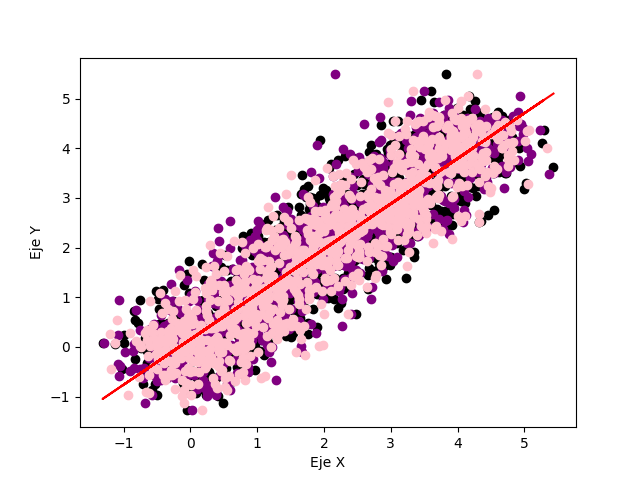
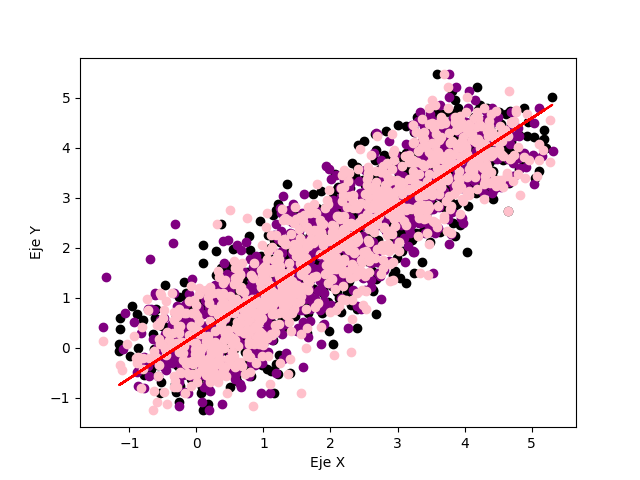
Fix en informe y codigo. Final

diff --git a/part_1.py b/part_1.py
@@ -2,33 +2,47 @@ import random
 import matplotlib.pyplot as plot
 import numpy as np
 
+"""
+Función para generar a Y dados X y W
+"""
 def genY(X,W):
     return X[1]*W[2]+X[0]*W[1]+W[0]
 
+"""
+Función de descenso de gradiente implementada usando la derivada parcial
+Recibe una lista de vectores de X
+Un vector Y
+Una lista de valores W para los pesos
+Un alpha
+"""
 def descensoGradiente(X,Y,W,alpha):
     n = len(X)
     W[0] = W[0] + alpha*(2*np.sum((Y-(W[1]*X[0]+W[0]))))/n
     W[1] = W[1] + alpha*(2*np.sum(X[1]*(Y-(W[1]*X[1]+W[0]))))/n
     W[2] = W[2] + alpha*(2*np.sum(X[2]*(Y-(W[2]*X[2]+W[1]*X[2]+W[0]))))/n
     return W
-
+""""
+Función main
+Los rngX son inicializadores de valores aleatorios de Numpy con seeds predefinidos
+X1,X2,X3 son los vectores de los valores de X
+W es una lista de valores aleatorios obtenidos de X1,X2 y X3. 
+"""
 def main():
-    rng1 = np.random.default_rng(33)
-    rng2 = np.random.default_rng(34)
-    rng3 = np.random.default_rng(35)
-    rng4 = np.random.default_rng(36)
-    rng5 = np.random.default_rng(37)
+    rng1 = np.random.default_rng(seed=25)
+    rng2 = np.random.default_rng(seed=30)
+    rng3 = np.random.default_rng(seed=35)
+    rng4 = np.random.default_rng(seed=40)
     X1 = np.array(sorted(list(range(5))*200)) + rng1.normal(size=1000, scale=0.5)
     X2 = np.array(sorted(list(range(5))*200)) + rng2.normal(size=1000, scale=0.5)
-    X3 = np.array(sorted(list(range(5))*200)) + rng4.normal(size=1000, scale=0.5)
+    X3 = np.array(sorted(list(range(5))*200)) + rng3.normal(size=1000, scale=0.5)
     X = [X1,X2,X3]
     W = []
     W.append(random.choice(X1))
     W.append(random.choice(X2))
     W.append(random.choice(X3))
-    Y = np.array(sorted(list(range(5))*200)) + rng5.normal(size=1000, scale=0.5)
+    Y = np.array(sorted(list(range(5))*200)) + rng4.normal(size=1000, scale=0.5)
     alpha = 0.000001
-    epsilon = 0.47
+    epsilon = 0.463
     n = 0
     print(f"W: {W}")
     error = []

diff --git a/informe.md b/informe.md
@@ -12,14 +12,17 @@ Se usó la función dada en clase para el caso multivariado. La regresión linea
 
 La función de pérdida cuadrática usada fue $L^2(y,\hat{y}) = (y - \hat{y})^2$, de acuerdo al enunciado del proyecto. 
 
-Dentro del código se definió que la condición de convergencia para las iteraciones fuera de $50.000$ iteraciones, un $\alpha = 0.000001$ y $\epsilon = 0.50$ con un seed fijo. Si se quita el seed fijo, los valores oscilaban entre $0.47$ y $0.51$ cuando disminuía el error, sin tener muchos cambios cuando alcanzaba la convergencia.
+Dentro del código se definió que la condición de convergencia para las iteraciones fuera de $50.000$ iteraciones, un $\alpha = 0.000001$ y $\epsilon = 0.463$ con un seed fijo. Si se quita el seed fijo, los valores oscilaban entre $0.47$ y $0.51$ cuando disminuía el error, sin tener muchos cambios cuando alcanzaba la convergencia.
 
 La función definida para hacer las pruebas fue $f(x) = w_0+w_1 \cdot x_1+w_2 \cdot x_2$
 
 ![Plano y función graficada](images/Plot_1.png)
 
+Se observa que la línea recta está aproximadamente en el medio de todos los puntos, siendo una regresión lineal que aproxima a la mayoría de los valores dados.
 
 ![Gráfico de convergencia del error](images/Plot_error.png)
+
+En la gráfica se observa la convergencia del error hacia las 13000 iteraciones, precisamente en el valor $n = 13.476$, con un $\epsilon = 0.462999$
 
 ## Parte 2 - Preprocesamiento de los datos
 
